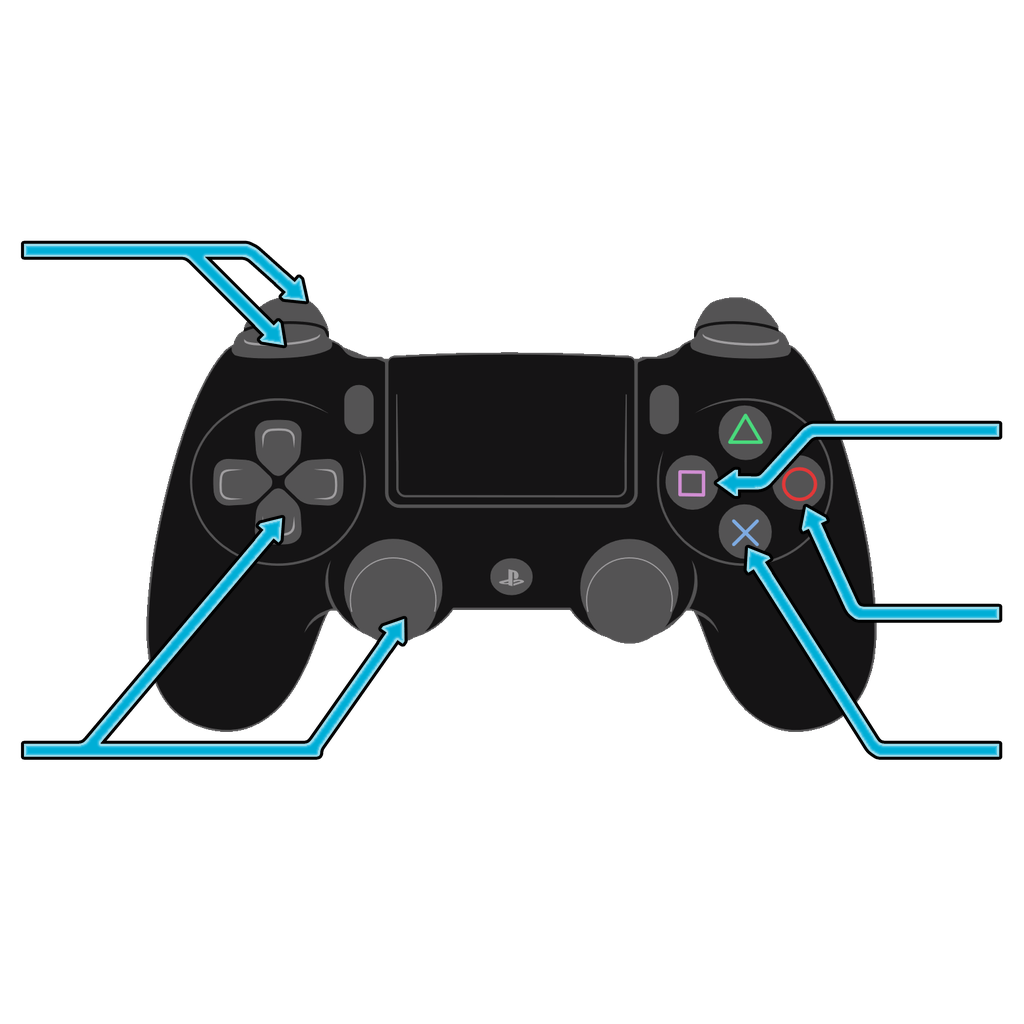
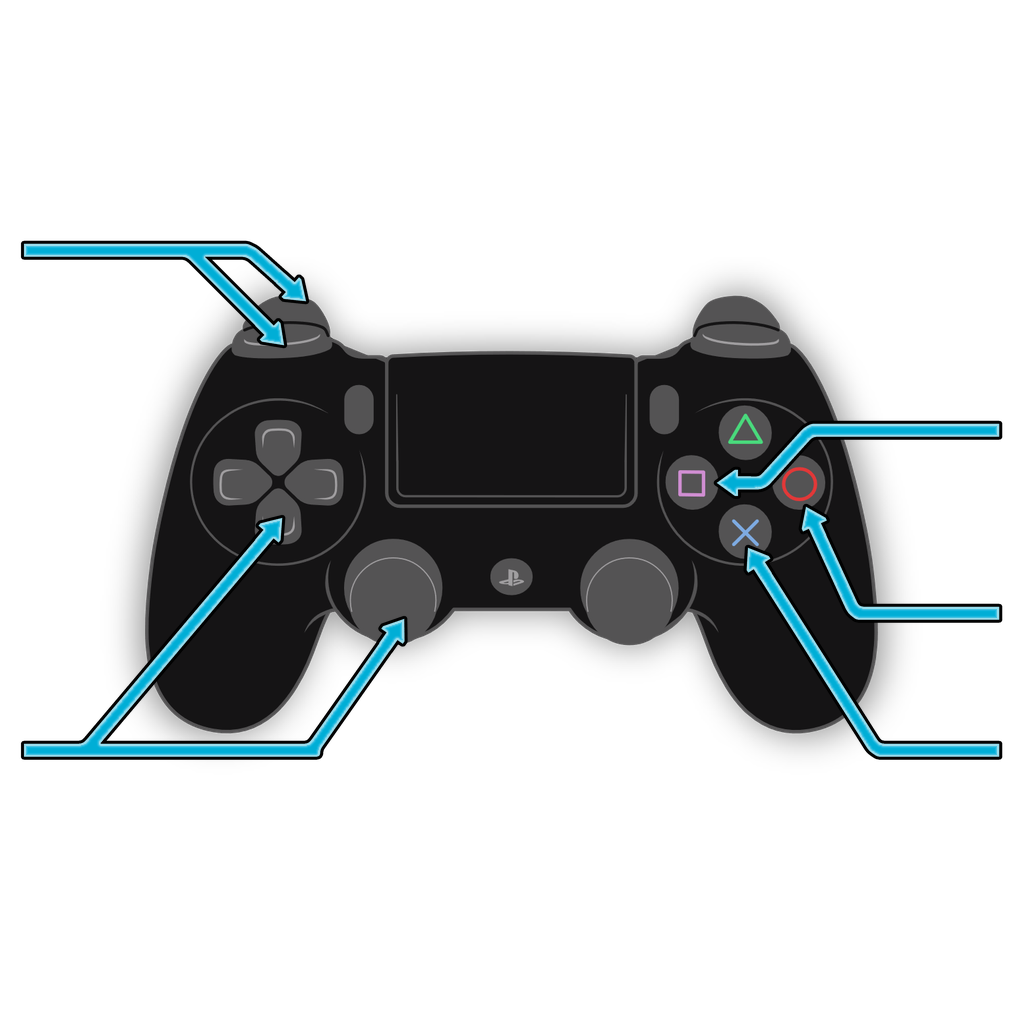
Refactor Steam Deck controller assets and scripts
- Updated README.md to clarify the use of transparent PNGs for pad diagrams.
- Added new SVG files for Steam Deck pad callouts (pad_0-arrows.svg, pad_1-arrows.svg, pad_2-arrows.svg, pad_3-arrows.svg).
- Introduced new pad PNGs for Steam Deck (pad_0.png, pad_1.png, pad_2.png, pad_3.png).
- Modified scheme.toml to include Steam Deck pad references.
- Updated generate_controller_pad_0.py to utilize transparent backgrounds for pad images.
- Refactored PlayStation 4 and PlayStation 5 pad generation scripts to use the new transparent body loading function.
- Created a new script (generate_steam_deck_pads.py) for generating Steam Deck pad diagrams.

Changed region(s): [[0.125, 0.25, 0.875, 0.75], [0.2812, 0.5938, 0.7188, 0.6875]]

diff --git a/scripts/generate_controller_pad_0.py b/scripts/generate_controller_pad_0.py
@@ -12,7 +12,7 @@ from xml.etree import ElementTree
 
 import cv2
 import numpy as np
-from PIL import Image, ImageChops, ImageDraw, ImageOps
+from PIL import Image, ImageChops, ImageDraw
 
 
 ROOT = Path(__file__).resolve().parents[1]
@@ -29,8 +29,9 @@ EXPECTED_RAILS = (5, 4, 5, 5)
 # visible silhouette at about x=150..875, y=290..755.
 BODY = (100, 245, 924, 798)
 
-def read_layout(pad_index: int, layout_id: str = "xbox-series") -> tuple[dict[str, tuple[tuple[int, int], ...]],
-                                                                            tuple[tuple[int, int, int], ...], int]:
+def read_layout(pad_index: int, layout_id: str = "xbox-series",
+                expected_routes: int | None = None) -> tuple[dict[str, tuple[tuple[int, int], ...]],
+                                                             tuple[tuple[int, int, int], ...], int]:
     """Read the editable SVG polylines and fixed text rails."""
     layout_svg = ROOT / f"assets/controller/masters/{layout_id}/pad_{pad_index}-arrows.svg"
     root = ElementTree.parse(layout_svg).getroot()
@@ -51,8 +52,9 @@ def read_layout(pad_index: int, layout_id: str = "xbox-series") -> tuple[dict[st
         if not name or name in routes or len(points) < 2:
             raise ValueError(f"Invalid arrow route {name!r}")
         routes[name] = points
-    if len(routes) != EXPECTED_ROUTES[pad_index]:
-        raise ValueError(f"Expected {EXPECTED_ROUTES[pad_index]} arrows in {layout_svg.name}, found {len(routes)}")
+    expected = EXPECTED_ROUTES[pad_index] if expected_routes is None else expected_routes
+    if len(routes) != expected:
+        raise ValueError(f"Expected {expected} arrows in {layout_svg.name}, found {len(routes)}")
     rails = []
     for line in rail_group.findall(f"{SVG}line"):
         x1, y1, x2, y2 = (int(line.get(key)) for key in
@@ -74,8 +76,14 @@ def route_distance(first: tuple[tuple[int, int], tuple[int, int]],
     def cross(p: tuple[int, int], q: tuple[int, int], r: tuple[int, int]) -> int:
         return (q[0] - p[0]) * (r[1] - p[1]) - (q[1] - p[1]) * (r[0] - p[0])
 
-    if cross(a, b, c) * cross(a, b, d) <= 0 and \
-            cross(c, d, a) * cross(c, d, b) <= 0:
+    ab_c, ab_d = cross(a, b, c), cross(a, b, d)
+    cd_a, cd_b = cross(c, d, a), cross(c, d, b)
+    collinear = ab_c == ab_d == cd_a == cd_b == 0
+    overlaps = (max(min(a[0], b[0]), min(c[0], d[0])) <=
+                min(max(a[0], b[0]), max(c[0], d[0])) and
+                max(min(a[1], b[1]), min(c[1], d[1])) <=
+                min(max(a[1], b[1]), max(c[1], d[1])))
+    if (not collinear or overlaps) and ab_c * ab_d <= 0 and cd_a * cd_b <= 0:
         return 0.0
 
     def point_to_segment(p: tuple[int, int], start: tuple[int, int],
@@ -90,12 +98,15 @@ def route_distance(first: tuple[tuple[int, int], tuple[int, int]],
                point_to_segment(c, a, b), point_to_segment(d, a, b))
 
 
-def validate_routes(routes: dict[str, tuple[tuple[int, int], ...]]) -> None:
+def validate_routes(routes: dict[str, tuple[tuple[int, int], ...]],
+                    allowed_joins: frozenset[frozenset[str]] = frozenset()) -> None:
     # A shaft is about 20 px wide. Require visible space between each pair;
     # the shared horizontal rails are intentionally excluded from this check.
     route_items = list(routes.items())
     for index, (name, points) in enumerate(route_items):
         for other_name, other_points in route_items[index + 1:]:
+            if frozenset((name, other_name)) in allowed_joins:
+                continue
             gap = min(route_distance(first, second)
                       for first in zip(points, points[1:])
                       for second in zip(other_points, other_points[1:]))
@@ -115,27 +126,12 @@ def validate_complete(name: str, image: Image.Image,
                 raise ValueError(f"{name} has a gap near ({x}, {y})")
 
 
-def remove_white_background(source: Image.Image) -> Image.Image:
-    """Separate the dark pad from its white matte, retaining its soft shadow."""
-    rgb = source.convert("RGB")
-    red, green, blue = rgb.split()
-    minimum = ImageChops.darker(ImageChops.darker(red, green), blue)
-    # Select the connected dark controller body, then fill its enclosed lighter
-    # controls. This avoids an opaque white fringe from the source's soft shadow.
-    selected = minimum.point(lambda value: 255 if value < 100 else 0)
-    seed = (rgb.width // 2, rgb.height // 3)
-    if selected.getpixel(seed) != 255:
-        raise ValueError("Expected dark controller body at pad.png center")
-    ImageDraw.floodfill(selected, seed, 128)
-    selected = selected.point(lambda value: 255 if value == 128 else 0)
-    ImageDraw.floodfill(selected, (0, 0), 64)
-    silhouette = selected.point(lambda value: 0 if value == 64 else 255)
-    # Exterior gray pixels are the source's shadow on white. Unmatte them to
-    # transparent black; leave all colored buttons and body grays intact.
-    shadow = ImageOps.invert(minimum)
-    alpha = Image.composite(Image.new("L", rgb.size, 255), shadow, silhouette)
-    colors = Image.composite(rgb, Image.new("RGB", rgb.size), silhouette)
-    return Image.merge("RGBA", (*colors.split(), alpha))
+def load_transparent_body(source: Image.Image) -> Image.Image:
+    """Use the source artwork's alpha, including its antialiased edges."""
+    body = source.convert("RGBA")
+    if body.getchannel("A").getextrema()[0] == 255:
+        raise ValueError("Expected pad.png with a transparent background")
+    return body
 
 
 def read_head_library() -> tuple[Image.Image, tuple[tuple[int, int, int], ...]]:
@@ -287,7 +283,7 @@ def generate_pad(pad_index: int) -> None:
     routes, rails, width = read_layout(pad_index)
     validate_routes(routes)
     with Image.open(SOURCE) as source:
-        body = remove_white_background(source)
+        body = load_transparent_body(source)
     art = Image.new("RGBA", (SIZE, SIZE))
     fitted = body.resize((BODY[2] - BODY[0], BODY[3] - BODY[1]),
                          Image.Resampling.LANCZOS)

diff --git a/scripts/generate_steam_deck_pads.py b/scripts/generate_steam_deck_pads.py
@@ -1,0 +1,64 @@
+"""Render Steam Deck pad diagrams from editable callout routes.
+
+Run: python scripts/generate_steam_deck_pads.py
+Edit masters/steam-deck/pad_N-arrows.svg to adjust the callouts.
+"""
+
+from PIL import Image
+
+from generate_controller_pad_0 import (
+    ROOT, SIZE, load_transparent_body, read_layout, render_callouts,
+    validate_complete, validate_routes,
+)
+
+
+SOURCE = ROOT / "assets/controller/masters/steam-deck/pad.png"
+# Crop the transparent export margin to the prior 1132:458 framing so the
+# existing arrow tips still land on their controls.
+SOURCE_CROP = (70, 62, 1202, 520)
+BODY = (132, 320, 892, 627)
+ROUTE_COUNTS = (7, 6, 5, 6)
+LEFT_SHAFT_JOIN = frozenset(("dpad", "left_stick"))
+PAD_0_JOINS = frozenset((
+    LEFT_SHAFT_JOIN,
+    frozenset(("right_stick", "a_button")),
+))
+PAD_3_JOINS = frozenset((LEFT_SHAFT_JOIN,))
+
+
+def generate_pad(pad_index: int) -> None:
+    if pad_index not in range(4):
+        raise ValueError(f"Unknown Steam Deck pad index: {pad_index}")
+    routes, rails, width = read_layout(
+        pad_index, "steam-deck", expected_routes=ROUTE_COUNTS[pad_index])
+    # Pads 0 and 3 join the left callouts; pad 0 also joins the right ones.
+    allowed_joins = (PAD_0_JOINS if pad_index == 0 else
+                     PAD_3_JOINS if pad_index == 3 else frozenset())
+    validate_routes(routes, allowed_joins)
+    with Image.open(SOURCE) as source:
+        body = load_transparent_body(source).crop(SOURCE_CROP)
+    art = Image.new("RGBA", (SIZE, SIZE))
+    fitted = body.resize((BODY[2] - BODY[0], BODY[3] - BODY[1]),
+                         Image.Resampling.LANCZOS)
+    art.alpha_composite(fitted, BODY[:2])
+    callouts = render_callouts(routes, rails, width)
+    for name, points in routes.items():
+        validate_complete(name, callouts, points)
+    alpha = callouts.getchannel("A")
+    for x_start, x_end, y in rails:
+        if any(not alpha.getpixel((x, y)) for x in range(x_start, x_end + 1)):
+            raise ValueError(f"Horizontal arrow rail has a gap at y={y}")
+    art.alpha_composite(callouts)
+    dest = ROOT / f"assets/controller/steam-deck/pads/pad_{pad_index}.png"
+    dest.parent.mkdir(parents=True, exist_ok=True)
+    art.save(dest)
+    print(f"Wrote {dest.relative_to(ROOT)}")
+
+
+def main() -> None:
+    for pad_index in range(4):
+        generate_pad(pad_index)
+
+
+if __name__ == "__main__":
+    main()

diff --git a/scripts/generate_playstation_5_pads.py b/scripts/generate_playstation_5_pads.py
@@ -5,42 +5,17 @@ Edit masters/playstation-5/pad_N-arrows.svg to adjust the callouts.
 """
 
 from PIL import Image
-import cv2
-import numpy as np
 
 from generate_controller_pad_0 import (
-    ROOT, SIZE, read_layout, render_callouts,
+    ROOT, SIZE, load_transparent_body, read_layout, render_callouts,
     validate_complete, validate_routes,
 )
 
 
 SOURCE = ROOT / "assets/controller/masters/playstation-5/pad.png"
-# Preserve the master's 1322:828 aspect ratio. Its visible silhouette lands at
+# Preserve the master's 1322:829 aspect ratio. Its visible silhouette lands at
 # approximately x=144..879, y=293..723; the PS3 text rails stay in place.
 BODY = (95, 248, 928, 770)
-
-
-def remove_white_background(source: Image.Image) -> Image.Image:
-    """Keep the controller silhouette and thumbsticks, excluding its broad shadow."""
-    rgb = np.asarray(source.convert("RGB"), dtype=np.uint8)
-    candidate = (rgb.min(axis=2) < 145).astype(np.uint8)
-    contours, _ = cv2.findContours(candidate, cv2.RETR_EXTERNAL,
-                                   cv2.CHAIN_APPROX_SIMPLE)
-    silhouette = np.zeros(candidate.shape, dtype=np.uint8)
-    for contour in contours:
-        if cv2.contourArea(contour) > 1000:
-            cv2.drawContours(silhouette, [contour], -1, 255, cv2.FILLED)
-    if not silhouette.any():
-        raise ValueError("PS5 pad silhouette could not be found")
-    silhouette = cv2.erode(silhouette, np.ones((3, 3), dtype=np.uint8),
-                           iterations=2)
-    inner = cv2.erode(silhouette, np.ones((3, 3), dtype=np.uint8),
-                       iterations=2)
-    edge = (silhouette != 0) & (inner == 0)
-    rgb = rgb.copy()
-    rgb[edge] = np.minimum(rgb[edge], 100)
-    rgba = np.dstack((rgb, silhouette))
-    return Image.fromarray(rgba, "RGBA")
 
 
 def generate_pad(pad_index: int) -> None:
@@ -49,7 +24,7 @@ def generate_pad(pad_index: int) -> None:
     routes, rails, width = read_layout(pad_index, "playstation-5")
     validate_routes(routes)
     with Image.open(SOURCE) as source:
-        body = remove_white_background(source)
+        body = load_transparent_body(source)
     art = Image.new("RGBA", (SIZE, SIZE))
     fitted = body.resize((BODY[2] - BODY[0], BODY[3] - BODY[1]),
                          Image.Resampling.LANCZOS)

diff --git a/scripts/generate_playstation_4_pads.py b/scripts/generate_playstation_4_pads.py
@@ -5,11 +5,9 @@ Edit masters/playstation-4/pad_N-arrows.svg to adjust the callouts.
 """
 
 from PIL import Image
-import cv2
-import numpy as np
 
 from generate_controller_pad_0 import (
-    ROOT, SIZE, read_layout, render_callouts,
+    ROOT, SIZE, load_transparent_body, read_layout, render_callouts,
     validate_complete, validate_routes,
 )
 
@@ -20,35 +18,13 @@ SOURCE = ROOT / "assets/controller/masters/playstation-4/pad.png"
 BODY = (95, 248, 928, 782)
 
 
-def remove_white_background(source: Image.Image) -> Image.Image:
-    """Keep the dark controller silhouette without its white matte or shadow."""
-    rgb = np.asarray(source.convert("RGB"), dtype=np.uint8)
-    candidate = (rgb.min(axis=2) < 145).astype(np.uint8)
-    contours, _ = cv2.findContours(candidate, cv2.RETR_EXTERNAL,
-                                   cv2.CHAIN_APPROX_SIMPLE)
-    silhouette = np.zeros(candidate.shape, dtype=np.uint8)
-    for contour in contours:
-        if cv2.contourArea(contour) > 1000:
-            cv2.drawContours(silhouette, [contour], -1, 255, cv2.FILLED)
-    if not silhouette.any():
-        raise ValueError("PS4 pad silhouette could not be found")
-    silhouette = cv2.erode(silhouette, np.ones((3, 3), dtype=np.uint8),
-                           iterations=2)
-    inner = cv2.erode(silhouette, np.ones((3, 3), dtype=np.uint8),
-                       iterations=2)
-    edge = (silhouette != 0) & (inner == 0)
-    rgb = rgb.copy()
-    rgb[edge] = np.minimum(rgb[edge], 100)
-    return Image.fromarray(np.dstack((rgb, silhouette)), "RGBA")
-
-
 def generate_pad(pad_index: int) -> None:
     if pad_index not in range(4):
         raise ValueError(f"Unknown PlayStation 4 pad index: {pad_index}")
     routes, rails, width = read_layout(pad_index, "playstation-4")
     validate_routes(routes)
     with Image.open(SOURCE) as source:
-        body = remove_white_background(source)
+        body = load_transparent_body(source)
     art = Image.new("RGBA", (SIZE, SIZE))
     fitted = body.resize((BODY[2] - BODY[0], BODY[3] - BODY[1]),
                          Image.Resampling.LANCZOS)

diff --git a/assets/controller/masters/README.md b/assets/controller/masters/README.md
@@ -2,9 +2,9 @@
 
 Each controller has a `<layout-id>/` folder here, matching its layout folder
 under `assets/controller/`. Its `pad.svg` is editable source art and `pad.png`
-is the raster body used while composing annotated pad diagrams. These files are
-authoring sources; runtime schemes use only the PNGs declared in their layout
-folders.
+is the transparent raster body used while composing annotated pad diagrams.
+These files are authoring sources; runtime schemes use only the PNGs declared
+in their layout folders.
 
 The existing vector export helper is `scripts/export_controller_vector_masters.py`.
 It identifies its upstream source as the CC0 Xelu prompts SVG adaptation by
@@ -48,13 +48,25 @@ and their arrow tips follow the PS5 controls. Run
 `python scripts/generate_playstation_5_pads.py` to regenerate the four PNGs in
 `assets/controller/playstation-5/pads/`. The PS5 generator shares the arrow
 head, cyan profile, and route renderer with the Xbox Series generator. It
-extracts the controller silhouette from the white-backed PS5 master so its
-shadow does not appear in the finished diagrams. The PS5 body keeps its source
-aspect ratio; only the arrow tips move to its controls.
+uses the transparent source PNG's alpha. The PS5 body keeps its source aspect
+ratio; only the arrow tips move to its controls.
 
 The PlayStation 4 folder follows the same route and text-rail convention. Its
 `pad_0-arrows.svg` through `pad_3-arrows.svg` point to PS4 controls while keeping
 the PS3 text rails. Run `python scripts/generate_playstation_4_pads.py` to
 regenerate `assets/controller/playstation-4/pads/pad_0.png` through `pad_3.png`.
-The generator removes the white-backed source shadow, preserves the PS4 body's
+The generator uses the transparent source PNG's alpha, preserves the PS4 body's
 aspect ratio, and uses the shared PS3 arrow renderer.
+
+The Steam Deck folder has four `pad_N-arrows.svg` route masters and the same
+PS3 text-rail outer endpoints. Run `python scripts/generate_steam_deck_pads.py` to
+rebuild `assets/controller/steam-deck/pads/pad_0.png` through `pad_3.png`.
+The front-view master does not distinguish each trigger from its bumper, so
+pads 0, 1, and 3 use one arrow per shoulder side. Pad 2 needs separate callouts:
+the trigger arrows meet the top rim and the bumper arrows meet the outer
+shoulder edges. Those positions identify regions of the shared silhouette,
+not separately visible controls. Pads 0 and 3 share one shaft outside the left
+edge for the D-pad and left stick. Pad 0 also shares a straight right shaft for
+the lower X button and right stick. The generator crops the transparent export
+margin to preserve the body framing and arrow alignment; the SVG previews use
+that same framing.

diff --git a/docs/guides/controller-scheme-v2-format.md b/docs/guides/controller-scheme-v2-format.md
@@ -46,8 +46,14 @@ PlayStation 4 declares the same four `ps_0` through `ps_3` slots. Run
 `python scripts/generate_playstation_4_pads.py` to rebuild them from its
 [`pad.png`](../../assets/controller/masters/playstation-4/pad.png) and
 [`pad_N-arrows.svg`](../../assets/controller/masters/playstation-4/pad_0-arrows.svg)
-masters, using the corresponding PS3 text rails. The other authored folders
-still declare no pad PNGs.
+masters, using the corresponding PS3 text rails.
+Steam Deck declares four generated diagrams for `xbox_0` through `xbox_3`.
+Run `python scripts/generate_steam_deck_pads.py` to rebuild them from its
+[`pad.png`](../../assets/controller/masters/steam-deck/pad.png) and
+[`pad_N-arrows.svg`](../../assets/controller/masters/steam-deck/pad_0-arrows.svg)
+masters. Its front view shows one shoulder silhouette per side; pad 2 uses
+the top rim for trigger callouts and outer shoulder edges for bumper callouts.
+The other authored folders still declare no pad PNGs.
 The files in `masters/` are authoring sources; manifests reference finished
 images in their layout folders.
 
